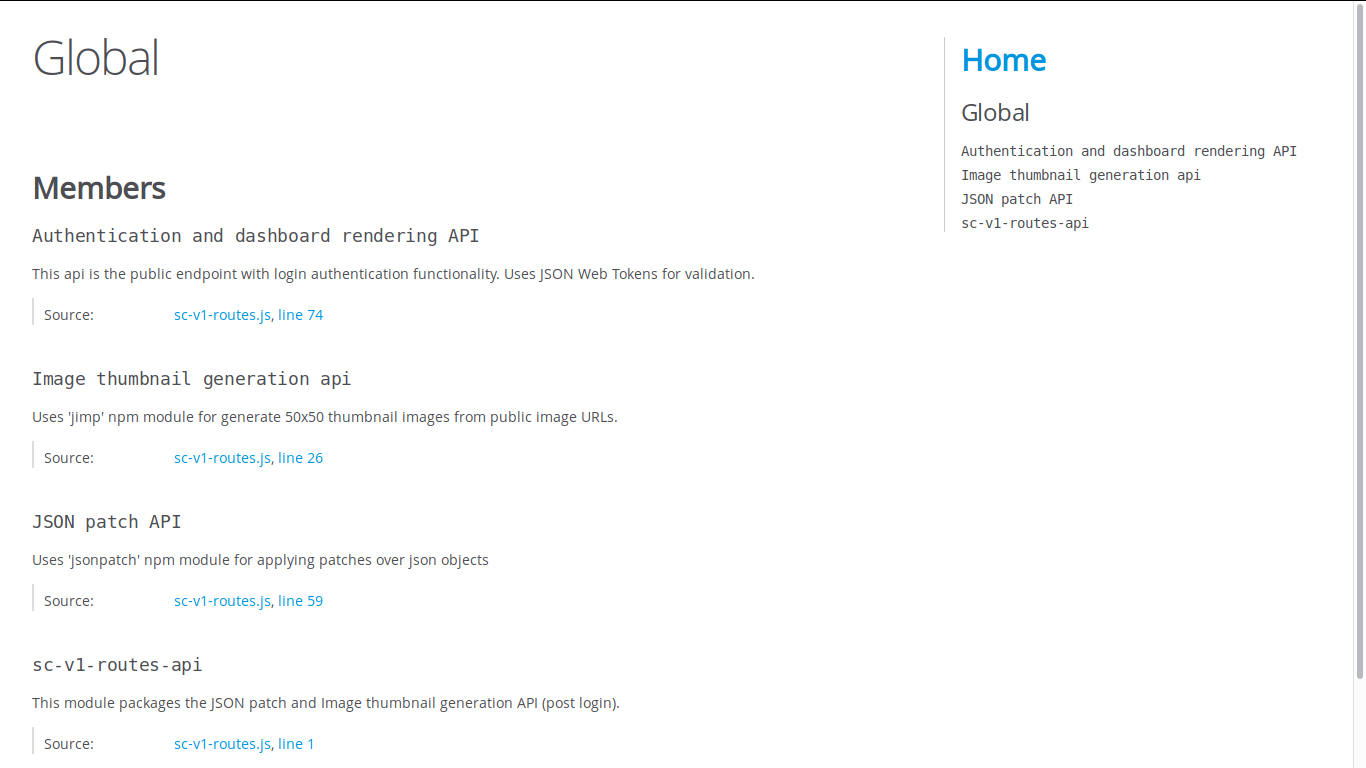
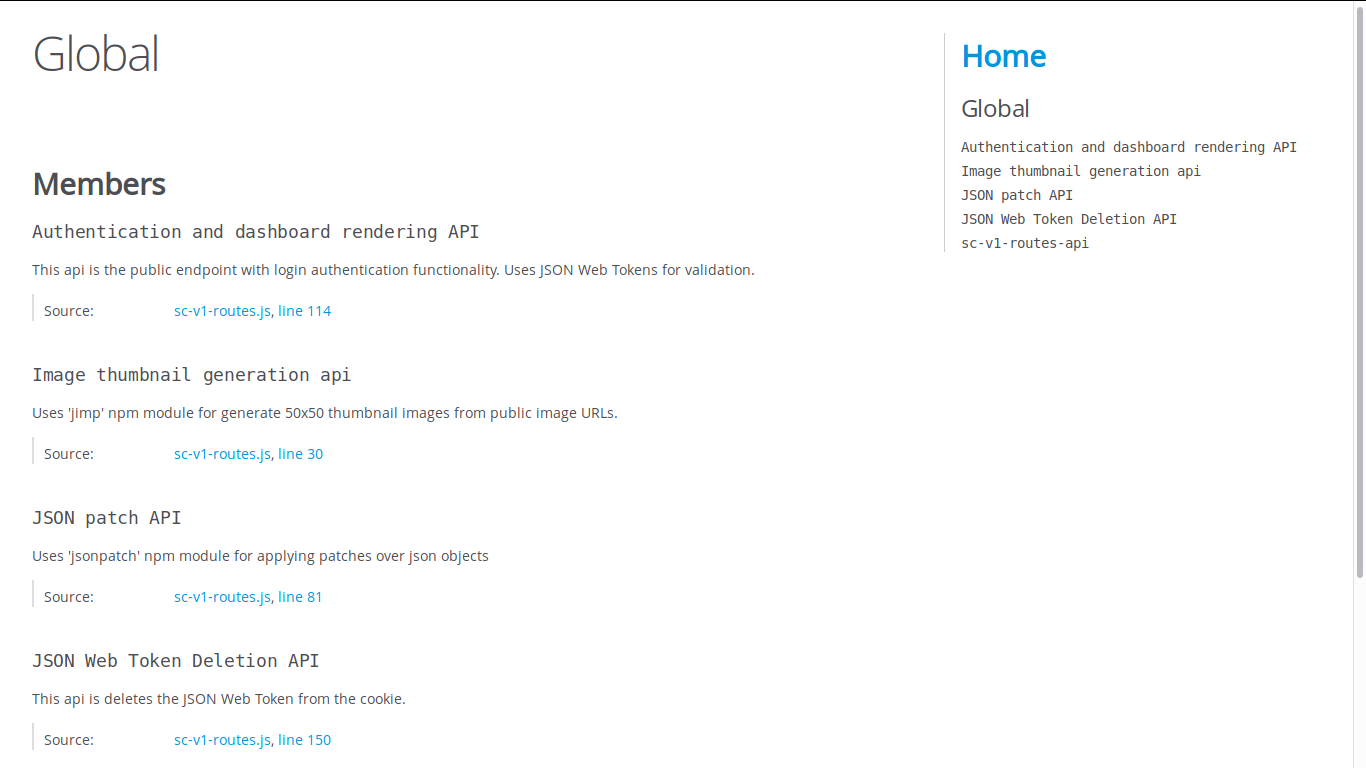
loggers added

diff --git a/routes/sc-v1-routes.js b/routes/sc-v1-routes.js
@@ -36,23 +36,25 @@ api.get('/imageupload', function(req, res){
   var token = req.cookies['cookie-token'];
   jwt.verify(token, 'secret', function(err, decoded) {
     if(err){
-      console.log(err);
+      hydraExpress.log('error', err);
       res.send("Please login");
     }
     else{
+      hydraExpress.log('info', "Cookie verified");
       res.render('imageupload');
     }
   });
-})
+});
 
 api.post('/imageoutput', function(req, res){
   var token = req.cookies['cookie-token'];
   jwt.verify(token, 'secret', function(err, decoded) {
     if(err){
-      console.log(err);
+      hydraExpress.log('error', err);
       res.send("Please login");
     }
     else{
+      hydraExpress.log('info', "Cookie verified");
       if(req.body.image.trim() != ""){
         Jimp.read(req.body.image, function (err, image) {
           if(err){
@@ -62,7 +64,7 @@ api.post('/imageoutput', function(req, res){
             image.resize(50, 50)
              .getBuffer(Jimp.MIME_JPEG, function(err, buffer){
                if(err){
-                 console.log(err);
+                 hydraExpress.log('error', err);
                  res.send(err);
                }
                 res.setHeader('content-type', 'image/jpeg');
@@ -72,11 +74,12 @@ api.post('/imageoutput', function(req, res){
         });
       }
       else{
+        hydraExpress.log('error', "Incorrect data");
         res.send("Incorrect data");
       }
     }
   });
-})
+});
 
 /**
 * @name JSON patch API
@@ -87,29 +90,31 @@ api.get('/jsoninput', function(req, res){
   var token = req.cookies['cookie-token'];
   jwt.verify(token, 'secret', function(err, decoded) {
     if(err){
-      console.log(err);
+      hydraExpress.log('error', err);
       res.send("Please login");
     }
     else{
+      hydraExpress.log('info', "Cookie verified");
       res.render('jsonpatchinput');
     }
   });
-})
+});
 
 api.post('/jsonoutput', function(req, res){
   var token = req.cookies['cookie-token'];
   jwt.verify(token, 'secret', function(err, decoded) {
     if(err){
-      console.log(err);
+      hydraExpress.log('error', err);
       res.send("Please login");
     }
     else{
+      hydraExpress.log('info', "Cookie verified");
       var obj = JSON.parse(req.body.json_object);
       var patch = JSON.parse(req.body.json_patch);
       res.send(JSON.stringify(jsonpatch.apply_patch(obj, patch),null,2));
     }
   });
-})
+});
 
 /**
 * @name Authentication and dashboard rendering API
@@ -118,30 +123,34 @@ api.post('/jsonoutput', function(req, res){
 
 api.post('/dashboard', function(req, res){
   if(req.body.username == "aman" && req.body.password == "musicstar"){
+    hydraExpress.log('info', "Authentication Successful");
     var token = jwt.sign(payload, 'secret', { expiresIn: 60 * 60 }, function(err, token){
-      console.log(err);
+      if(err){
+        hydraExpress.log('error', err);
+        res.send("Error");
+      }
       function getToken(){
         return token;
       }
       res.cookie('cookie-token', getToken())
       res.render('dashboard');
-    })
-
+    });
   }
   else{
+    hydraExpress.log('error', "Authentication failed");
     res.send("Incorrect login");
   }
-})
+});
 
 api.get('/dashboard', function(req, res){
   var token = req.cookies['cookie-token'];
   jwt.verify(token, 'secret', function(err, decoded) {
     if(err){
-      console.log(err);
+      hydraExpress.log('error', err);
       res.send("Please login");
     }
     else{
-      console.log("Authentication Successful");
+      hydraExpress.log('info', "Cookie verified");
       res.render('dashboard');
     }
   });
@@ -153,8 +162,9 @@ api.get('/dashboard', function(req, res){
 */
 
 api.get('/deletetoken', function(req, res){
+  hydraExpress.log('info', "Token deleted");
   res.clearCookie('cookie-token');
   res.render('index');
-})
+});
 
 module.exports = api;
